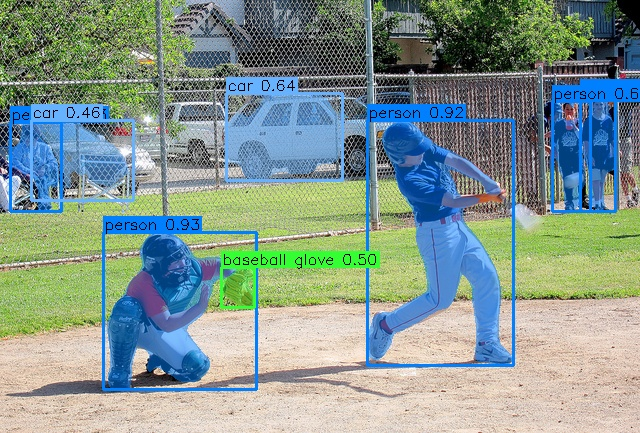
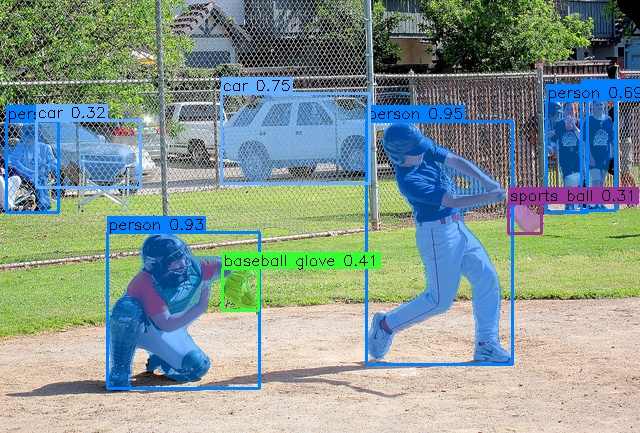
docs: update seg results to the 300-epoch runs
Formal pycocotools results for the two 300-epoch segmentation runs are
now in README, models/yolo26-seg.md, models/flash-yolo-seg.md and
development/alignment.md: yolo26n-seg Box 37.90 / Mask 32.37,
flash-yolo-seg Box 35.05 / Mask 29.98 (mAP50-95); the 100-epoch points
are kept for comparison. Demo images are regenerated from the
300-epoch Flash-YOLO-seg checkpoint.

Also fixes the 16 broken links left in README by the documentation
restructure (weights/dataset/train/val/export/infer and the old
run/spec pages now point at docs/models, docs/datasets and
docs/pipeline), and removes the remaining docs/bake mentions from
public pages.

diff --git a/README.md b/README.md
@@ -33,8 +33,8 @@ NMS = one-to-many head + NMS. Official rows are Objects365 pretraining + COCO fi
 | **Δ (Flash-YOLO vs YOLO26n, same budget)** | | **−2.68 (−7.1%)** | **−3.09 (−5.8%)** | | | **−0.60M (−23%)** | **−1.68 (−31%)** |
 
 - These are the 300-epoch from-scratch runs (batch 32, nbs 64, fp32, single GPU); the earlier
-  100-epoch results (36.22 / 33.77 E2E) are kept in [docs/weights.md](docs/weights.md) and
-  [docs/yolo26-runs.md](docs/yolo26-runs.md).
+  100-epoch results (36.22 / 33.77 E2E) are kept in [docs/models/yolo26.md](docs/models/yolo26.md)
+  and [docs/models/flash-yolo.md](docs/models/flash-yolo.md).
 
 <p align="center">
   <img src="assets/demo_seg.gif" width="640" alt="YOLO26n-seg instance segmentation demo — street traffic">
@@ -45,17 +45,18 @@ NMS = one-to-many head + NMS. Official rows are Objects365 pretraining + COCO fi
 | Model | Training | Box mAP50-95 | Box mAP50 | Mask mAP50-95 | Mask mAP50 | Params | GFLOPs |
 |---|---|---:|---:|---:|---:|---:|---:|
 | YOLO26n-seg · official weights | O365 + COCO | **39.67** | 55.48 | **33.67** | 52.76 | 3.13M | 9.3 |
-| YOLO26n-seg · this repo | 100 ep from scratch | 35.69 | 51.03 | 30.52 | 48.61 | 3.13M | 9.3 |
-| Flash-YOLO-seg · this repo | 100 ep from scratch | 33.11 | 47.96 | 28.24 | 45.34 | 2.53M | 7.6 |
-| **Δ (Flash-YOLO-seg vs YOLO26n-seg, same budget)** | | **−2.58 (−7.2%)** | **−3.07 (−6.0%)** | **−2.28 (−7.5%)** | **−3.27 (−6.7%)** | **−0.60M (−19%)** | **−1.7 (−18%)** |
+| YOLO26n-seg · this repo | 300 ep from scratch | **37.90** | **53.69** | **32.37** | **51.16** | 3.13M | 9.3 |
+| Flash-YOLO-seg · this repo | 300 ep from scratch | **35.05** | **50.74** | **29.98** | **48.14** | 2.53M | 7.6 |
+| **Δ (Flash-YOLO-seg vs YOLO26n-seg, same budget)** | | **−2.85 (−7.5%)** | **−2.95 (−5.5%)** | **−2.39 (−7.4%)** | **−3.02 (−5.9%)** | **−0.60M (−19%)** | **−1.7 (−18%)** |
 
 - Official YOLO26n-seg training-time validator records 39.75 / 33.86 (Box / Mask mAP50-95);
   this pipeline reports 39.67 / 33.67 — a ~0.002 metric-implementation difference, not a model
   difference.
-- Flash-YOLO-seg and YOLO26n-seg rows use the same recipe and budget (100 ep, batch 16, nbs 64,
-  fp32); the 20-epoch ablation is in [docs/flash-yolo-seg-spec.md](docs/flash-yolo-seg-spec.md).
+- Flash-YOLO-seg and YOLO26n-seg rows use the same recipe and budget (300 ep, batch 32, nbs 64,
+  fp32); the 100-epoch results (35.69 / 30.52 and 33.11 / 28.24) and the 20-epoch ablation are in
+  [docs/models/flash-yolo-seg.md](docs/models/flash-yolo-seg.md).
 - Full latency (ORT-CPU / TensorRT fp32/fp16, b1/b8), deployment artifacts and provenance:
-  [docs/weights.md](docs/weights.md).
+  [docs/models/README.md](docs/models/README.md).
 
 ## Table of Contents
 
@@ -83,7 +84,8 @@ NMS = one-to-many head + NMS. Official rows are Objects365 pretraining + COCO fi
 YOLOv3-tiny reference: official darknet weights evaluate at 17.16 / 35.90 (mAP50-95 / mAP50)
 @640 through this pipeline. From-scratch 300-epoch runs at 416 reach **16.15 / 29.93** with the
 current default recipe (SiLU + `--obj-iou-target`); the v0.6.0 recipe
-(`--muon-w 0.528 --sgd-w 0.674`) reaches 16.52 / 30.44. See [docs/weights.md](docs/weights.md).
+(`--muon-w 0.528 --sgd-w 0.674`) reaches 16.52 / 30.44. See
+[docs/models/yolov3-tiny.md](docs/models/yolov3-tiny.md).
 
 > YOLOv3-tiny's canonical input is **416** (darknet; the GFLOPs column is measured there).
 > `config/train.yaml` keeps `imgsz: 640` for every architecture, so the v3 protocol needs
@@ -158,7 +160,7 @@ python scripts/export.py --weights weights/flash-yolo.safetensors
 # -> runs/export/flash-yolo.onnx
 ```
 
-Other released checkpoints and their metrics: [docs/weights.md](docs/weights.md).
+Other released checkpoints and their metrics: [docs/models/README.md](docs/models/README.md).
 
 ## Usage
 
@@ -170,7 +172,7 @@ cp config/datasets/coco.yaml config/datasets/local/coco.yaml   # then edit `path
 ```
 
 YOLO-format descriptors, segmentation labels and conversions are covered in
-[docs/dataset.md](docs/dataset.md).
+[docs/datasets/README.md](docs/datasets/README.md).
 
 ### Detection
 
@@ -196,7 +198,7 @@ python scripts/train.py --data coco --device 0,1 --resume runs/train/train-<name
 ```
 
 Runs land in `runs/train/train-<name>/` (`best/last.safetensors`, `results.csv`, `diag/`, `samples/`).
-From-scratch / finetune / recipes / DDP details: [docs/train.md](docs/train.md).
+From-scratch / finetune / recipes / DDP details: [docs/pipeline/train.md](docs/pipeline/train.md).
 
 **Evaluate**
 
@@ -205,7 +207,7 @@ python scripts/eval.py --weights runs/train/train-flash-coco-e100/weights/best.s
 # E2E (NMS-free) by default; add --nms for the one-to-many + NMS path.
 ```
 
-`--split`, `--limit`, `--imgsz` and metric details: [docs/val.md](docs/val.md).
+`--split`, `--limit`, `--imgsz` and metric details: [docs/pipeline/eval.md](docs/pipeline/eval.md).
 
 **Export**
 
@@ -214,7 +216,7 @@ python scripts/export.py --weights runs/train/train-flash-coco-e100/weights/best
 # --fp16 for half precision; --dynamic for a dynamic batch axis.
 ```
 
-ONNX / TensorRT options and output contracts: [docs/export.md](docs/export.md).
+ONNX / TensorRT options and output contracts: [docs/pipeline/export.md](docs/pipeline/export.md).
 
 **Infer**
 
@@ -225,7 +227,7 @@ python scripts/infer.py --weights runs/train/train-flash-coco-e100/weights/best.
     --video 0 --max-frames 300          # file / RTSP URL / camera index
 ```
 
-Full engine and output notes: [docs/infer.md](docs/infer.md).
+Full engine and output notes: [docs/pipeline/infer.md](docs/pipeline/infer.md).
 
 <p align="center">
   <img src="assets/traffic_det.jpg" width="49%" alt="flash-yolo detections — street traffic">
@@ -242,7 +244,7 @@ Supported architectures: **YOLO26-seg** (n/s/m/l/x), **Flash-YOLO-seg**.
 
 COCO polygon annotations and YOLO-seg txt rows (`cls x1 y1 ...`) are both accepted; bbox-only
 rows fall back to rectangles. Format details and the COCO converter:
-[docs/dataset.md](docs/dataset.md).
+[docs/datasets/README.md](docs/datasets/README.md).
 
 **Train**
 
@@ -256,7 +258,7 @@ python scripts/train.py --data coco --recipe yolo26-seg-coco-ft \
 ```
 
 Segmentation memory/throughput notes (`--mask-ratio`, `--overlap-mask`, batch sizing):
-[docs/train.md](docs/train.md).
+[docs/pipeline/train.md](docs/pipeline/train.md).
 
 **Evaluate** — checkpoints produce Box and Mask tables automatically:
 
@@ -277,19 +279,19 @@ python scripts/infer.py --weights weights/flash-yolo-seg.safetensors \
     --image assets/traffic.jpg
 ```
 
-Full engine and output notes: [docs/infer.md](docs/infer.md).
+Full engine and output notes: [docs/pipeline/infer.md](docs/pipeline/infer.md).
 
 <p align="center">
   <img src="assets/traffic_seg.jpg" width="49%" alt="flash-yolo-seg instance segmentation — street traffic">
   <img src="assets/baseball_seg.jpg" width="49%" alt="flash-yolo-seg instance segmentation — baseball">
   <br>
-  <em>Instance segmentation by the 100-epoch Flash-YOLO-seg checkpoint — same COCO val2017 samples, 640 input</em>
+  <em>Instance segmentation by the 300-epoch Flash-YOLO-seg checkpoint — same COCO val2017 samples, 640 input</em>
 </p>
 
 ## Documentation
 
 The full manual starts at [docs/README.md](docs/README.md): train / val / export / infer / dataset /
-docker / FAQ, released weights and latency ([docs/weights.md](docs/weights.md)), and the
+docker / FAQ, released weights and latency ([docs/models/README.md](docs/models/README.md)), and the
 per-architecture specs (YOLO26, Flash-YOLO / -seg, YOLOv3-tiny).
 
 ## Contributing
@@ -352,4 +354,4 @@ The code is licensed under **Apache-2.0** — see [LICENSE](LICENSE) for details
   `scripts/download_weights.py` for personal use.
 - **From-scratch detection checkpoints** are published as safetensors on
   [Releases](https://github.com/zjykzj/flash-yolo/releases); the exact list, profiles and the
-  segmentation status (local-only for now) are in [docs/weights.md](docs/weights.md).
+  segmentation status (local-only for now) are in [docs/models/README.md](docs/models/README.md).

diff --git a/docs/models/flash-yolo-seg.md b/docs/models/flash-yolo-seg.md
@@ -60,24 +60,31 @@
 | `flash-yolo-seg-e100-640` | 100 ep 从零 | 640 | [safetensors](https://github.com/zjykzj/flash-yolo/releases/download/v1.0.0/flash-yolo-seg-e100-640.safetensors) |
 
 - 本地 100 轮产物：`runs/train/train-flash-seg-100ep2/weights/best.safetensors`。
+- 本地 300 轮产物：`runs/train/train-v1-flash-yolo-seg-e300/weights/best.safetensors`
+  （未随 Release 分发）。
 - 权重 metadata 自带 `arch=flash-yolo-seg` / `scale=flash` / `nc` / `names` / `imgsz`，
   eval/infer/export 可自动解析。
 
 ## 5. 正式指标（COCO val2017 @640）
 
-100 轮从零（default 配方、batch 16、nbs 64、fp32、mask_ratio 4、seed 0）：
+两个从零预算点：100 轮（default 配方、batch 16、nbs 64、fp32、mask_ratio 4、seed 0）与
+300 轮（同配方、batch 32、nbs 64）：
 
-| 模型 | Params | GFLOPs | Box mAP50 | Box mAP50-95 | Mask mAP50 | Mask mAP50-95 |
-|---|---:|---:|---:|---:|---:|---:|
-| Flash-YOLO-seg | 2,528,248 | 7.6 | 47.96 | **33.11** | 45.34 | **28.24** |
-| YOLO26n-seg（同预算） | 3,126,280 | 9.3 | 51.03 | 35.69 | 48.61 | 30.52 |
-| Δ（相对） | −19.1% | −18.3% | −6.0% | **−7.2%** | −6.7% | **−7.5%** |
+| 训练 | 模型 | Params | GFLOPs | Box mAP50 | Box mAP50-95 | Mask mAP50 | Mask mAP50-95 |
+|---|---|---:|---:|---:|---:|---:|---:|
+| 100 ep | Flash-YOLO-seg | 2,528,248 | 7.6 | 47.96 | **33.11** | 45.34 | **28.24** |
+| 100 ep | YOLO26n-seg（同预算） | 3,126,280 | 9.3 | 51.03 | 35.69 | 48.61 | 30.52 |
+| 100 ep | Δ（相对） | −19.1% | −18.3% | −6.0% | **−7.2%** | −6.7% | **−7.5%** |
+| 300 ep | Flash-YOLO-seg | 2,528,248 | 7.6 | 50.74 | **35.05** | 48.14 | **29.98** |
+| 300 ep | YOLO26n-seg（同预算） | 3,126,280 | 9.3 | 53.69 | 37.90 | 51.16 | 32.37 |
+| 300 ep | Δ（相对） | −19.1% | −18.3% | −5.5% | **−7.5%** | −5.9% | **−7.4%** |
 
-- 架构代价与检测版同量级（检测 −7.1%），说明 PoolConv/DW stem 的取舍不随任务改变。
-- best 在末轮（ep100），曲线仍在上升；100 轮是预算点，不是收敛上限。
+- 架构代价与检测版同量级（检测 300 轮 −7.1%），说明 PoolConv/DW stem 的取舍不随任务改变。
+- 100 轮 best 在末轮（ep100），曲线仍在上升；300 轮 best 也在末轮（ep300），但末段已放缓
+  （最后 10 轮 +0.2 box / +0.1 mask）——两者都是预算点，不是收敛上限。
 - 20 轮对照：Flash-YOLO-seg Box 25.80 / Mask 22.07；YOLO26n-seg 27.80 / 23.95
   （mAP50-95，只用于相对比较）。
-- 不要与官方 O365 初始化权重（Box 39.67 / Mask 33.67）直接横比；同起点对照是上表第二行。
+- 不要与官方 O365 初始化权重（Box 39.67 / Mask 33.67）直接横比；同起点对照是上面同预算行。
 
 ## 6. 推理延迟
 

diff --git a/docs/models/yolo26-seg.md b/docs/models/yolo26-seg.md
@@ -50,6 +50,9 @@ backbone/neck 与检测版**逐行相同**（官方 yaml diff 的唯一一行是
 |---|---|---|---|
 | `yolo26n-seg-from-scratch-e100-640` | 100 ep 从零 | 640 | [safetensors](https://github.com/zjykzj/flash-yolo/releases/download/v1.0.0/yolo26n-seg-from-scratch-e100-640.safetensors) |
 
+本轮 300 轮从零产物只在本地（`runs/train/train-v1-yolo26n-seg-e3002/weights/best.safetensors`），
+尚未随 Release 分发。
+
 官方权重不随 Release 分发，需自行下载：
 
 ```bash
@@ -77,10 +80,12 @@ python scripts/convert_weights.py --src weights/yolo26n-objv1-seg.pt \
 |---|---:|---:|---:|---:|
 | 官方权重（O365 + COCO） | **39.67** | 55.48 | **33.67** | 52.76 |
 | 从零 100 ep | 35.69 | 51.03 | 30.52 | 48.61 |
+| 从零 300 ep | **37.90** | **53.69** | **32.37** | **51.16** |
 
 - 官方训练期 validator 记录 box 39.75 / mask 33.86；本管线 39.67 / 33.67，差 ~0.002
   属指标实现噪声。
-- 从零 100 轮是预算点，不是收敛上限；与 Flash-YOLO-seg 的同预算对照见
+- 100/300 轮都是预算点（同一 default 配方，batch 16 / 32、nbs 64）；300 轮末段斜率已明显
+  放缓（最后 10 轮 +0.2 box / +0.3 mask），best 在 ep295。与 Flash-YOLO-seg 的同预算对照见
   [flash-yolo-seg.md](flash-yolo-seg.md)。
 - 完整官方 245 轮尚未跑：单卡 `mask_ratio=1` 约 5.2 img/s，DDP 可扩但数据管线先饱和。
 

diff --git a/docs/development/alignment.md b/docs/development/alignment.md
@@ -40,8 +40,13 @@ python scripts/compare_official.py --data coco --nms
 
 | 口径 | mAP50 | mAP50-95 |
 |---|---:|---:|
-| Box | 0.5548 | **0.3967** |
-| Mask | 0.5276 | **0.3367** |
+| 官方权重 Box | 0.5548 | **0.3967** |
+| 官方权重 Mask | 0.5276 | **0.3367** |
+| 本仓库从零 300 ep Box | 0.5369 | 0.3790 |
+| 本仓库从零 300 ep Mask | 0.5116 | 0.3237 |
+
+从零 300 轮（default 配方）与官方（O365 + COCO）的差距为 **1.77 / 1.30**（Box / Mask
+mAP50-95），与检测侧同量级；100 轮时分别为 3.98 / 3.15。
 
 官方训练期 validator 记录 box **0.3975** / mask **0.3386**，与本管线差 ~0.002——与检测侧
 40.1 vs 40.27 同类的指标实现噪声。掩码解码与官方 val 逐像素一致；导出侧 pt(CPU) vs

diff --git a/docs/README.md b/docs/README.md
@@ -50,4 +50,4 @@ docs/
 - **正式指标** = `scripts/eval.py` + pycocotools，COCO val2017，640 输入（YOLOv3-tiny 原生 416，也支持 640 评估）。
 - **E2E** = NMS-free 默认路径（o2o 头）；**NMS** = one-to-many 头 + NMS。
 - **官方 YOLO26 权重**是 Objects365 预训练 + COCO 微调；从零训练数字与官方不是 like-for-like。
-- **训练 run 记录与消融细节**属于私有档案（`docs/bake/`，不进 git）；本目录只保留公开、可复现的结论与命令。
+- **训练 run 记录与消融细节**属于私有档案（不进 git）；本目录只保留公开、可复现的结论与命令。

diff --git a/docs/architecture.md b/docs/architecture.md
@@ -28,7 +28,7 @@ tests/       核心套件 + env-gated smoke / repro / DDP
 utils/       engines/（base · pt · onnx · trt） · postprocess.py · anchors.py · iou.py
              visualize.py · plots.py · logger.py · paths.py · progress.py
 assets/      demo 图片、GIF 与渲染结果
-docs/        使用手册（本目录）· bake/ 私有档案（gitignored）
+docs/        使用手册（本目录）
 runs/        训练 / 评估 / 导出 / 推理产物（gitignored）
 ```
 
